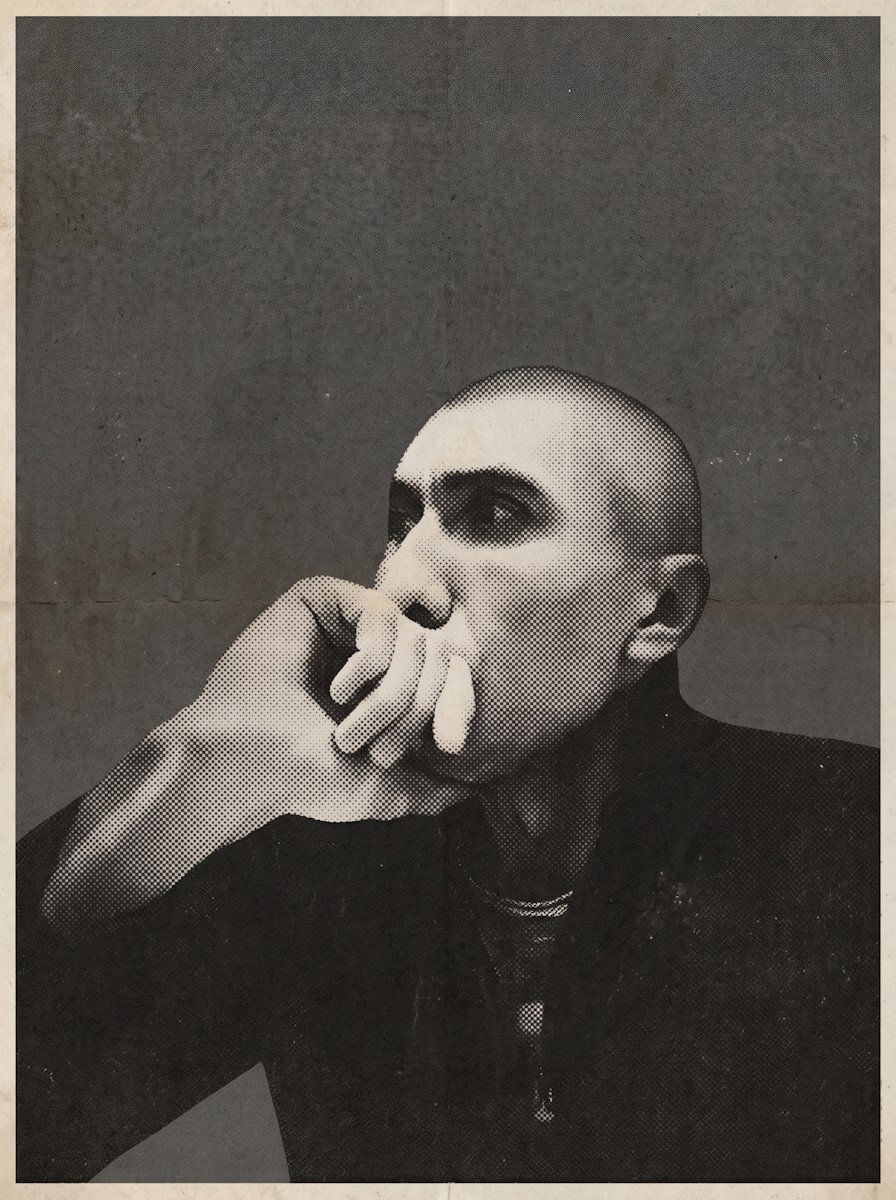
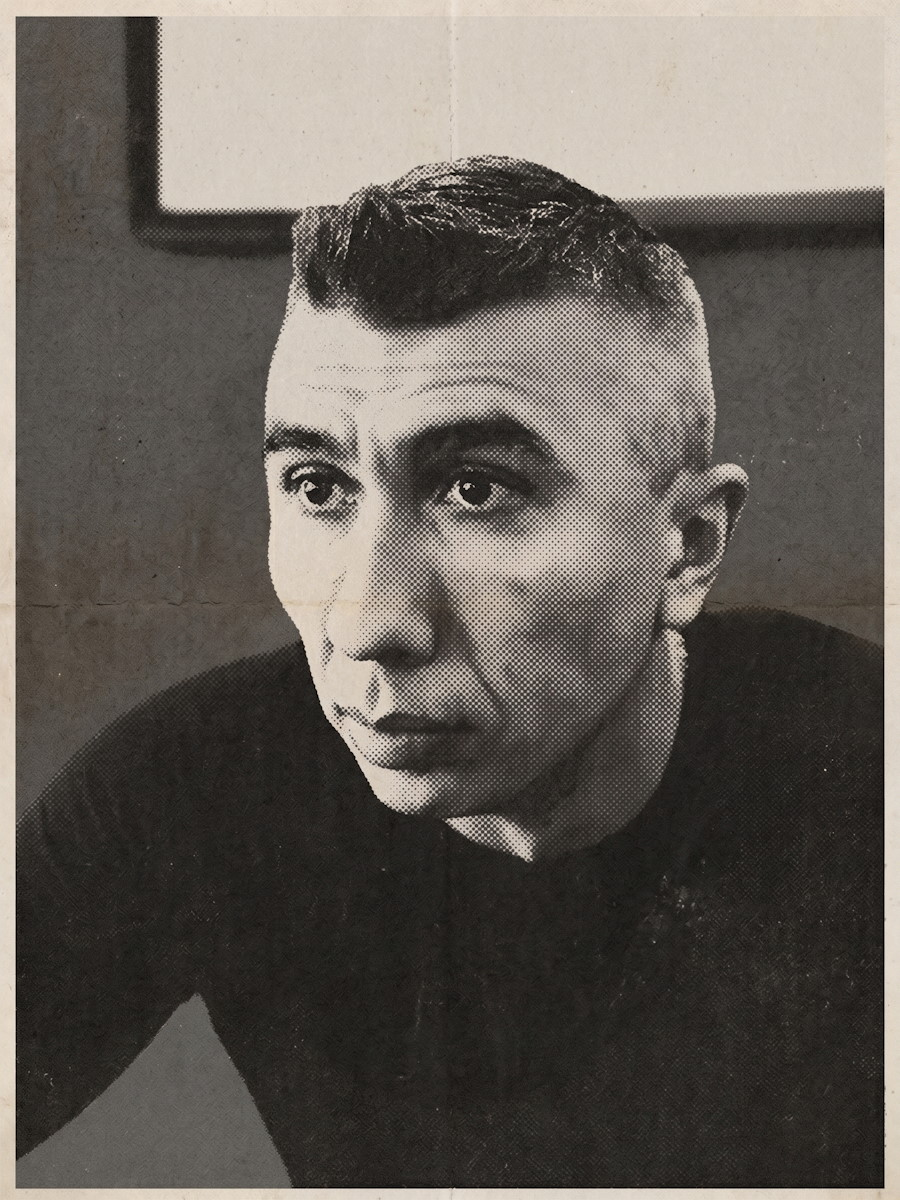
Правки контента: фото v3, ссылки 'подробнее' в плашках, разделение групп ИИ/Документы, обновление карточек P-01/P-02/P-03

diff --git a/index.html b/index.html
@@ -67,11 +67,12 @@ header .lbl{margin-bottom:12px}
 .kicker::before{content:'';width:44px;height:2px;background:var(--stamp);flex:none}
 h1.tagline{
   font-weight:900;text-transform:uppercase;
-  font-size:clamp(30px,5.4vw + 12px,72px);line-height:1.02;letter-spacing:-.01em;
+  font-size:clamp(25px,4.5vw + 10px,60px);line-height:1.04;letter-spacing:-.01em;
 }
 .subline{margin-top:16px;font-size:clamp(16px,1.7vw,21px);font-weight:500;color:var(--ink-soft)}
-.hero p.lead{margin-top:26px;max-width:52ch;font-size:17px;color:var(--ink-soft)}
+.hero p.lead{margin-top:26px;max-width:104ch;font-size:17px;color:var(--ink-soft)}
 .hero p.lead b{color:var(--ink)}
+.hero p.lead + .lead{margin-top:14px}
 /* фото как объект чертежа */
 .photo-obj{position:relative;padding:32px 14px 14px;margin-right:18px}
 .photo-obj img{
@@ -87,24 +88,29 @@ h1.tagline{
 .photo-obj .cap{margin-top:8px;text-align:right}
 /* ── лента данных ── */
 .datastrip{display:grid;grid-template-columns:repeat(4,1fr);border-top:2px solid var(--ink);border-bottom:1px solid var(--hair-strong)}
-.datastrip .cell{padding:18px 16px 20px;border-right:1px solid var(--hair)}
+.datastrip .cell{padding:18px 16px 20px;border-right:1px solid var(--hair);display:flex;flex-direction:column}
 .datastrip .cell:first-child{border-left:1px solid var(--hair-strong)}
 .datastrip .cell:last-child{border-right:1px solid var(--hair-strong)}
 .datastrip .num{font-weight:800;font-size:clamp(24px,2.6vw,36px);letter-spacing:-.02em;margin-top:6px;font-variant-numeric:tabular-nums}
 .datastrip .num small{font-weight:600;font-size:.5em;color:var(--ink-soft);display:block;margin-top:4px;letter-spacing:.06em}
+.datastrip .more{margin-top:auto;align-self:flex-end;font-family:var(--mono);font-size:13px;letter-spacing:.1em;text-transform:uppercase;color:var(--ink-soft);text-decoration:none}
+.datastrip .more:hover{color:var(--stamp)}
 /* ── секции ── */
 section{padding:clamp(40px,7vh,72px) 4px}
-.sec-head{display:flex;align-items:baseline;gap:16px;border-bottom:1px solid var(--hair-strong);padding-bottom:12px;margin-bottom:32px}
+.sec-head{display:flex;align-items:baseline;gap:16px;border-bottom:1px solid var(--hair-strong);padding-bottom:12px;margin-bottom:26px}
 .sec-head .idx{font-family:var(--mono);color:var(--stamp);font-size:12px;font-weight:700}
 .sec-head h2{font-weight:800;text-transform:uppercase;font-size:clamp(20px,2.4vw,30px);letter-spacing:.02em}
 .sec-head .tag{margin-left:auto}
 /* проекты */
 .proj{display:grid;grid-template-columns:120px 1fr;gap:20px;padding:26px 0;border-bottom:1px dashed var(--hair)}
 .proj:last-of-type{border-bottom:0}
+.proj:first-of-type{padding-top:0}
 .proj .pid{font-family:var(--mono);font-weight:700;font-size:15px;color:var(--stamp)}
 .proj .pid small{display:block;font-weight:400;color:var(--ink-soft);font-size:13px;margin-top:6px;letter-spacing:.08em}
 .proj h3{font-weight:800;font-size:clamp(19px,2.2vw,26px);line-height:1.15}
-.proj p{margin-top:10px;color:var(--ink-soft);max-width:68ch}
+.proj p{margin-top:10px;color:var(--ink-soft);max-width:136ch}
+.proj p a{color:var(--ink);text-decoration:underline;text-decoration-color:var(--hair-strong);text-underline-offset:3px}
+.proj p a:hover{color:var(--stamp);text-decoration-color:var(--stamp)}
 .chips{display:flex;flex-wrap:wrap;gap:8px;margin-top:16px}
 .chip{font-family:var(--mono);font-size:11px;letter-spacing:.06em;padding:4px 9px;border:1px solid var(--hair-strong);color:var(--ink-soft)}
 .chip.hot{border-color:var(--stamp);color:var(--stamp)}
@@ -112,10 +118,10 @@ section{padding:clamp(40px,7vh,72px) 4px}
 .status::before{content:'';width:9px;height:9px;background:var(--stamp)}
 /* раскрываемая спецификация проекта */
 .proj details.spec{margin-top:16px;border:1px solid var(--hair-strong);background:rgba(228,225,214,.5)}
-.proj details.spec summary{list-style:none;cursor:pointer;display:flex;align-items:center;gap:10px;padding:10px 14px;font-family:var(--mono);font-size:11px;letter-spacing:.12em;text-transform:uppercase;color:var(--ink-soft)}
+.proj details.spec summary{list-style:none;cursor:pointer;display:flex;align-items:center;gap:12px;padding:12px 16px;font-family:var(--mono);font-size:12px;letter-spacing:.12em;text-transform:uppercase;color:var(--ink-soft);background:#DED9CB}
 .proj details.spec summary::-webkit-details-marker{display:none}
-.proj details.spec summary::after{content:'+';margin-left:auto;font-weight:700;font-size:15px;color:var(--stamp)}
-.proj details.spec[open] summary::after{content:'−'}
+.proj details.spec summary::before{content:'▸';font-size:36px;line-height:1;color:var(--stamp);flex:none;transform:translateY(-3px)}
+.proj details.spec[open] summary::before{content:'▾'}
 .proj details.spec summary:hover,.proj details.spec[open] summary{color:var(--stamp)}
 .spec dl{display:grid;grid-template-columns:96px 1fr;gap:12px 16px;padding:16px 14px;border-top:1px solid var(--hair-strong);margin:0}
 .spec dt{font-family:var(--mono);font-size:11px;letter-spacing:.12em;text-transform:uppercase;color:var(--stamp);padding-top:2px}
@@ -127,12 +133,12 @@ section{padding:clamp(40px,7vh,72px) 4px}
 /* опыт как таблица учёта */
 table.exp{width:100%;border-collapse:collapse}
 table.exp td{padding:16px 14px;border-bottom:1px solid var(--hair);vertical-align:top}
-table.exp tr:first-child td{border-top:1px solid var(--hair-strong)}
 table.exp .yrs{font-family:var(--mono);font-size:12px;letter-spacing:.06em;white-space:nowrap;color:var(--ink-soft);width:150px}
 table.exp .org{font-weight:700;width:34%}
 table.exp .role{color:var(--ink-soft)}
 /* о себе */
-.about p{max-width:72ch;color:var(--ink-soft);font-size:17px}
+.about p{max-width:144ch;color:var(--ink-soft);font-size:17px}
+.about p + p{margin-top:14px}
 .about p b{color:var(--ink)}
 /* ── футер-штамп ── */
 footer{
@@ -182,16 +188,18 @@ footer .contacts{margin-top:18px;display:grid;gap:8px;font-family:var(--mono);fo
   .lbl{font-size:12.5px}
   .tech-groups .lbl{font-size:15px}
   .photo-obj .dim{font-size:11px}
-  h1.tagline{font-size:clamp(40px,4.5vw,84px)}
+  h1.tagline{font-size:clamp(33px,3.75vw,70px)}
   .subline{font-size:clamp(18px,1.9vw,24px)}
   .hero p.lead{font-size:18px}
+  .hero p.lead + .lead{margin-top:12px}
   .datastrip .num{font-size:clamp(30px,2.2vw,44px)}
+  .datastrip .more{font-size:14px}
   .sec-head .idx{font-size:13.5px}
   .chip{font-size:12.5px}
   .status{font-size:12.5px}
   .proj .pid{font-size:17px}
   .proj .pid small{font-size:14px}
-  .proj details.spec summary{font-size:12.5px}
+  .proj details.spec summary{font-size:13px}
   .spec dt{font-size:12.5px}
   .spec dd{font-size:16.5px}
   table.exp .yrs{font-size:13.5px}
@@ -201,9 +209,9 @@ footer .contacts{margin-top:18px;display:grid;gap:8px;font-family:var(--mono);fo
 /* сверхширокие мониторы (2000+ / 2K full) */
 @media (min-width:2000px){
   body{font-size:18px}
-  h1.tagline{font-size:clamp(44px,5vw,104px)}
+  h1.tagline{font-size:clamp(36px,4.2vw,86px)}
   .subline{font-size:28px}
-  .hero p.lead{font-size:20px;max-width:56ch}
+  .hero p.lead{font-size:20px;max-width:112ch}
   .lbl{font-size:14px}
   header .code{font-size:15px}
   header nav{gap:8px}
@@ -220,11 +228,12 @@ footer .contacts{margin-top:18px;display:grid;gap:8px;font-family:var(--mono);fo
   .proj p{font-size:18px}
   .spec dd{font-size:18px}
   .spec dt{font-size:14px}
-  .proj details.spec summary{font-size:14px}
+  .proj details.spec summary{font-size:15px}
   table.exp .yrs{font-size:15px}
   table.exp td{padding:18px 16px}
   .about p{font-size:20px}
   .datastrip .num{font-size:clamp(36px,2.2vw,56px)}
+  .datastrip .more{font-size:16px}
   footer .big{font-size:clamp(26px,2.4vw,40px)}
   footer .contacts{font-size:18px}
   .tech-groups{grid-template-columns:repeat(3,1fr)}
@@ -248,8 +257,8 @@ footer .contacts{margin-top:18px;display:grid;gap:8px;font-family:var(--mono);fo
       <h1 class="tagline">Автоматизация рутины и сложных задач для вашего бизнеса</h1>
       <p class="subline">проектирую и довожу до промышленной эксплуатации</p>
       <p class="lead"><b>Более 25 лет в коммерческой разработке ПО для задач бизнеса</b> —
-      от десктопных приложений и служб до распределённых систем обработки документов.
-      С 2025 года — <b>ИИ-помощники и агенты</b> в разработке и тестировании
+      от десктопных приложений и служб до распределённых систем обработки документов.</p>
+      <p class="lead">С 2025 года — <b>ИИ-помощники и агенты</b> в разработке и тестировании
       как часть повседневного процесса.</p>
     </div>
     <figure class="photo-obj">
@@ -262,10 +271,10 @@ footer .contacts{margin-top:18px;display:grid;gap:8px;font-family:var(--mono);fo
   </div>
 
   <div class="datastrip">
-    <div class="cell"><div class="lbl">Коммерческая разработка</div><div class="num">25+ <small>лет</small></div></div>
-    <div class="cell"><div class="lbl">Платформа · пиковая нагрузка</div><div class="num">1&nbsp;000&nbsp;000 <small>док/сутки</small></div></div>
-    <div class="cell"><div class="lbl">Печать АвтоВАЗ</div><div class="num">~250 <small>устройств</small></div></div>
-    <div class="cell"><div class="lbl">ИПД · проверка 100–300 стр.</div><div class="num">&lt;1 <small>мин</small></div></div>
+    <div class="cell"><div class="lbl">Коммерческая разработка · международный рынок</div><div class="num">25+ <small>лет</small></div><a class="more" href="#about">подробнее</a></div>
+    <div class="cell"><div class="lbl">Платформа · подтверждённая нагрузка в работе у клиента</div><div class="num">1&nbsp;000&nbsp;000 <small>док/сутки</small></div><a class="more" href="#p01">подробнее</a></div>
+    <div class="cell"><div class="lbl">Печать АвтоВАЗ</div><div class="num">~250 <small>устройств</small></div><a class="more" href="#p03">подробнее</a></div>
+    <div class="cell"><div class="lbl">ИПД · проверка 100–300 стр.</div><div class="num">&lt;1 <small>мин</small></div><a class="more" href="#p02">подробнее</a></div>
   </div>
 
   <section id="tech">
@@ -278,16 +287,20 @@ footer .contacts{margin-top:18px;display:grid;gap:8px;font-family:var(--mono);fo
         <div class="chips"><span class="chip">C#/.NET 8 и 10</span><span class="chip">ASP.NET Core</span><span class="chip">Groovy</span><span class="chip">Python</span><span class="chip">JS</span><span class="chip">WPF</span><span class="chip">WinForms</span><span class="chip">async/await</span><span class="chip">многопоточность</span><span class="chip">RegEx</span></div>
       </div>
       <div class="tg">
+        <div class="lbl">ИИ</div>
+        <div class="chips"><span class="chip hot">ИИ-агенты</span><span class="chip">Claude Code</span><span class="chip">Codex</span><span class="chip">ZCode</span><span class="chip">CloudCLI</span><span class="chip">Open Code</span><span class="chip">Ollama</span><span class="chip">Gemma</span><span class="chip">Qwen</span><span class="chip">Kimi</span><span class="chip">Stable Diffusion</span><span class="chip">Whisper</span><span class="chip">LLM</span><span class="chip">NER · DeepPavlov</span><span class="chip">OpenCV</span><span class="chip">нечёткое сравнение текста</span><span class="chip">YandexVision</span></div>
+      </div>
+      <div class="tg">
+        <div class="lbl">Работа с Документами</div>
+        <div class="chips"><span class="chip">FineReader Engine</span><span class="chip">FlexiCapture</span><span class="chip">OCR</span><span class="chip">Tesseract</span><span class="chip">Docling</span><span class="chip">Open XML SDK</span><span class="chip">парсинг и анализ данных</span><span class="chip">сложные формы</span><span class="chip">классификация документов</span><span class="chip">потоковая обработка</span><span class="chip">DOCX</span><span class="chip">XLSX</span><span class="chip">PDF</span><span class="chip">ODT</span><span class="chip">CSV</span></div>
+      </div>
+      <div class="tg">
         <div class="lbl">Данные</div>
         <div class="chips"><span class="chip">PostgreSQL</span><span class="chip">Tantor</span><span class="chip">MS SQL Server</span><span class="chip">MySQL</span><span class="chip">партиционирование</span><span class="chip">хранимые процедуры</span><span class="chip">оптимизация БД</span><span class="chip">план выполнения</span><span class="chip">SQL без ORM</span><span class="chip">XML</span><span class="chip">JSON</span></div>
       </div>
       <div class="tg">
         <div class="lbl">Интеграции и транспорт</div>
-        <div class="chips"><span class="chip">RabbitMQ</span><span class="chip">REST API</span><span class="chip">SOAP</span><span class="chip">SNMP</span><span class="chip">SMTP/POP3/IMAP</span><span class="chip">Telegram-боты</span><span class="chip">LPR/IPP/RAW</span><span class="chip">TCP-сокеты</span><span class="chip">SharePoint</span><span class="chip">Консультант+</span><span class="chip">Кодекс</span><span class="chip">Robin RPA</span><span class="chip">WebDAV</span></div>
-      </div>
-      <div class="tg">
-        <div class="lbl">Документы и ИИ</div>
-        <div class="chips"><span class="chip hot">ИИ-агенты</span><span class="chip">LLM</span><span class="chip">NER · DeepPavlov</span><span class="chip">FineReader Engine</span><span class="chip">FlexiCapture</span><span class="chip">OCR</span><span class="chip">Tesseract</span><span class="chip">YandexVision</span><span class="chip">Docling</span><span class="chip">Open XML SDK</span><span class="chip">нечёткое сравнение текста</span><span class="chip">парсинг и анализ данных</span><span class="chip">сложные формы</span><span class="chip">классификация документов</span><span class="chip">потоковая обработка</span><span class="chip">DOCX</span><span class="chip">XLSX</span><span class="chip">PDF</span><span class="chip">ODT</span><span class="chip">CSV</span></div>
+        <div class="chips"><span class="chip">RabbitMQ</span><span class="chip">REST API</span><span class="chip">SOAP</span><span class="chip">SNMP</span><span class="chip">SMTP/POP3/IMAP</span><span class="chip">Telegram-боты</span><span class="chip">LPR/IPP/RAW</span><span class="chip">TCP-сокеты</span><span class="chip">SharePoint</span><span class="chip">Консультант+</span><span class="chip">Кодекс</span><span class="chip">Robin RPA</span><span class="chip">WebDAV</span><span class="chip">FTP/SFTP</span></div>
       </div>
       <div class="tg">
         <div class="lbl">Инфраструктура</div>
@@ -298,28 +311,30 @@ footer .contacts{margin-top:18px;display:grid;gap:8px;font-family:var(--mono);fo
 
   <section id="projects">
     <div class="sec-head">
-      <span class="idx">РАЗД. 02</span><h2>Значимые проекты</h2><span class="tag lbl">перечень обязательный</span>
+      <span class="idx">РАЗД. 02</span><h2>Последние интересные проекты</h2><span class="tag lbl">перечень для ознакомления</span>
     </div>
-    <article class="proj">
-      <div class="pid">P-01<small>с 2014<br>автор, архитектор</small></div>
+    <article class="proj" id="p01">
+      <div class="pid">P-01<small>автор, архитектор</small></div>
       <div>
         <h3>ESV Platform. Платформа распределённой обработки документов</h3>
-        <p>Кластер узлов с балансировщиком нагрузки, задачи и workflow в БД на выбор
-        (MS SQL, PostgreSQL, Tantor), контроль heartbeat, горячий резерв. До 1 000 000 документов в сутки.</p>
+        <p>ESV Platform зарегистрирована в реестре Российского ПО
+        (<a href="https://esv-platform.ru/" target="_blank" rel="noopener">https://esv-platform.ru/</a>).
+        Кластер узлов с балансировщиком нагрузки, задачи и workflow в БД на выбор
+        (MS&nbsp;SQL, PostgreSQL, Tantor), контроль heartbeat, горячий резерв. До 1&nbsp;000&nbsp;000 документов в сутки.</p>
         <div class="chips"><span class="chip">C#/.NET</span><span class="chip">PostgreSQL</span><span class="chip">Tantor</span><span class="chip">MS SQL Server</span><span class="chip">Windows / Linux</span><span class="chip">потоковая обработка</span><span class="chip">классификация документов</span><span class="chip">многопоточность</span><span class="chip">балансировка нагрузки</span><span class="chip">heartbeat</span><span class="chip">горячий резерв</span></div>
         <div class="status">статус: в промышленной эксплуатации</div>
         <details class="spec">
           <summary>спецификация · запрос / решение / результат</summary>
           <dl>
             <dt>Запрос</dt><dd>Непрерывная потоковая обработка документов разных видов: счета, договоры, пакеты документов, сканы, чертежи и другие. Приём из различных источников — сетевые папки, почта, FTP, WebDAV, SharePoint, брокеры сообщений. Полный цикл обработки: распознавание, классификация, поиск и извлечение данных, экспорт результатов в требуемые форматы. Ключевые требования — отказоустойчивость и масштабируемость под переменную нагрузку.</dd>
-            <dt>Решение</dt><dd>Распределённый кластер на .NET с БД на выбор — MS SQL, PostgreSQL, Tantor. Ядро — балансировщик нагрузки с резервированием (один активен, остальные ждут): он же назначает задачи узлам по мере движения документа по workflow — на узел, где есть нужный модуль и меньше очередь. Узел обработки — процесс-менеджер с пулом модулей; задачи вычитываются последовательно или параллельно, в зависимости от того, поддерживает ли модуль многопоточную обработку. Модули трёх типов: входные — регистрируют документ в БД для нужного workflow; обработки — выполняют стадии и передают документ дальше по маршруту; сервисные — фоновые задачи без привязки к workflow. Модули импорта можно резервировать. Система кроссплатформенная: узлы работают на Windows и любом Linux с .NET; для стадий ручной проверки есть веб-модуль верификации.</dd>
-            <dt>Результат</dt><dd>В разработке с 2014 года, в промышленной эксплуатации — с 2015-го. Пиковая нагрузка — до 1 000 000 документов в сутки. Система постоянно улучшается и дополняется новым функционалом.</dd>
+            <dt>Решение</dt><dd>Распределённый кластер на .NET с БД на выбор — MS&nbsp;SQL, PostgreSQL, Tantor. Ядро — балансировщик нагрузки с резервированием (один активен, остальные ждут): он же назначает задачи узлам по мере движения документа по workflow — на узел, где есть нужный модуль и меньше очередь. Узел обработки — процесс-менеджер с пулом модулей; задачи вычитываются последовательно или параллельно, в зависимости от того, поддерживает ли модуль многопоточную обработку. Модули трёх типов: входные — регистрируют документ в БД для нужного workflow; обработки — выполняют стадии и передают документ дальше по маршруту; сервисные — фоновые задачи без привязки к workflow. Модули импорта можно резервировать. Система кроссплатформенная: узлы работают на Windows и любом Linux с .NET; также систему можно развернуть в docker контейнерах; для стадий ручной проверки есть веб-модуль верификации.</dd>
+            <dt>Результат</dt><dd>В разработке с 2014 года, в промышленной эксплуатации — с 2015-го. Подтверждённая в работе нагрузка — до 1&nbsp;000&nbsp;000 документов в сутки. Система постоянно улучшается и дополняется новым функционалом.</dd>
           </dl>
         </details>
       </div>
     </article>
-    <article class="proj">
-      <div class="pid">P-02<small>с 2023<br>архитектор, разработчик</small></div>
+    <article class="proj" id="p02">
+      <div class="pid">P-02<small>архитектор, разработчик</small></div>
       <div>
         <h3>ДИТ Москвы. Система интеллектуальной проверки документов (ИПД)</h3>
         <p>Конвейер на Astra Linux: документ на 100–300 страниц проверяется обычно меньше чем за минуту.
@@ -330,26 +345,28 @@ footer .contacts{margin-top:18px;display:grid;gap:8px;font-family:var(--mono);fo
           <summary>спецификация · запрос / решение / результат</summary>
           <dl>
             <dt>Запрос</dt><dd>Две большие задачи. Первая — в больших документах находить все упоминания нормативных правовых и технических актов (НПА/НТА), проверять их корректность и актуальность, выполнять дополнительные проверки формулировок и оформления; результат — детальный и сводный отчёты по документу. Вторая — сравнение документов одного проекта (ТЗ, ЧТЗ, ПМИ, заявки, протоколы) между собой на консистентность и корректность, а также проверка уникальности ТЗ и ЧТЗ разных проектов; по каждому сценарию — детальные и сводный отчёты о найденных несоответствиях, дубликатах и пропусках.</dd>
-            <dt>Решение</dt><dd>Отдельная версия платформы распределённой обработки документов со своими модулями. Кластер на Astra Linux. Поиск сущностей — NER на DeepPavlov; анализ структуры документа и последующая работа с ним — на Open XML SDK. Детальные отчёты — проблемные участки выделяются цветом прямо в исходном документе, с комментариями. Сравнение структур и содержимого — авторские алгоритмы нечёткого поиска либо LLM там, где нужно сравнить смысл при сильно различающихся формулировках. Для пользователей — веб-фронтенд и REST API.</dd>
+            <dt>Решение</dt><dd>Отдельная версия платформы распределённой обработки документов со своими модулями. Кластер на Astra Linux. Поиск сущностей — NER на DeepPavlov; проверка актуальности НПА/НТА во внешних справочно-информационных системах Кодекс и Консультант+. Анализ структуры документа и последующая работа с ним — на Open XML SDK. Детальные отчёты — проблемные участки выделяются цветом прямо в исходном документе, с комментариями. Сравнение структур и содержимого — авторские алгоритмы нечёткого поиска либо LLM там, где нужно сравнить смысл при сильно различающихся формулировках. Для пользователей — веб-фронтенд и REST API.</dd>
             <dt>Результат</dt><dd>Типовой сценарий — документ на 100–300 страниц проверяется меньше чем за минуту: NER работает на GPU, активное участие LLM не требуется. Особо сложные сценарии анализа могут занимать 5–10 минут.</dd>
           </dl>
         </details>
       </div>
     </article>
-    <article class="proj">
-      <div class="pid">P-03<small>2024–2025<br>архитектор, разработчик</small></div>
+    <article class="proj" id="p03">
+      <div class="pid">P-03<small>архитектор, разработчик</small></div>
       <div>
         <h3>АвтоВАЗ. Система гарантированной печати</h3>
-        <p>~250 устройств: RabbitMQ с очередью на каждое, SNMP-контроль до и после печати,
-        печать по LPR/IPP/RAW, этикетки с RFID.</p>
-        <div class="chips"><span class="chip">RabbitMQ</span><span class="chip">PostgreSQL</span><span class="chip">партиционирование</span><span class="chip">JSON</span><span class="chip">SNMP</span><span class="chip">LPR/IPP/RAW</span><span class="chip">RFID</span><span class="chip">Deckhouse</span><span class="chip">WPF</span></div>
+        <p>~250 устройств печати (лазерные и термо-принтеры, этикетки с RFID, визуализация на телевизор)
+        с поддержкой различных протоколов печати на низком уровне. Брокер RabbitMQ с раздельными очередями
+        на каждое устройство, SNMP-контроль до и после печати. Мониторинг состояния отдельных устройств
+        и системы в целом.</p>
+        <div class="chips"><span class="chip">RabbitMQ</span><span class="chip">Postgres Pro</span><span class="chip">партиционирование</span><span class="chip">JSON</span><span class="chip">SNMP</span><span class="chip">LPR/IPP/RAW</span><span class="chip">RFID</span><span class="chip">Deckhouse</span><span class="chip">WPF</span></div>
         <div class="status">статус: сдано на конвейер</div>
         <details class="spec">
           <summary>спецификация · запрос / решение / результат</summary>
           <dl>
-            <dt>Запрос</dt><dd>Замена существующего CUPS-сервера. В производственных линиях критичны гарантия печати и чёткая последовательность заданий — прежнее решение этого не обеспечивало. Второй ключевой критерий — скорость обработки: не ниже 60 заданий печати в минуту на разные устройства.</dd>
-            <dt>Решение</dt><dd>Задания формируются как шаблоны с данными в JSON и через RabbitMQ попадают в общую очередь, где диспетчер распределяет их по узлам обработки. Узлы готовят бинарные данные под конкретное устройство печати (отправка по LPR/IPP/RAW) и передают их в отдельную очередь этого устройства. Узел печати — многопроцессное многопоточное решение — мониторит очереди всех устройств, опрашивает их по SNMP до готовности и проверяет, что задание напечаталось, по нескольким критериям; только после этого печать считается успешной. Есть резервные устройства и перенос очереди печати между устройствами, отдельные очереди команд для управления. Всё регистрируется и логируется в PostgreSQL — для таблиц с миллионами записей включено партиционирование. Поддерживаются разные модели и типы устройств: лазерники, термопринтеры. Сбои нотифицируются в управляющее приложение и на почту. Система собрана и работает в Deckhouse; в комплекте — WPF-приложение для тестирования, веб-админка и вывод заданий печати на телевизор.</dd>
-            <dt>Результат</dt><dd>Нагрузочное тестирование с запасом покрывает требования по скорости обработки и печати. Система сдана на конвейер и работает в промышленной эксплуатации.</dd>
+            <dt>Запрос</dt><dd>Импортозамещение существующего сервера печати. В производственных линиях критичны гарантия печати и чёткая последовательность заданий — прежнее решение этого не обеспечивало. Второй ключевой критерий — скорость обработки: не ниже 60 заданий печати в минуту на разные устройства.</dd>
+            <dt>Решение</dt><dd>Задания формируются как шаблоны с данными в JSON и через RabbitMQ попадают в общую очередь, где диспетчер распределяет их по узлам обработки. Узлы готовят бинарные данные под конкретное устройство печати (отправка по LPR/IPP/RAW) и передают их в отдельную очередь этого устройства. Узел печати — многопроцессное многопоточное решение — мониторит очереди всех устройств, опрашивает их по SNMP до готовности и проверяет, что задание напечаталось, по нескольким критериям; только после этого печать считается успешной. Есть резервные устройства и перенос очереди печати между устройствами, отдельные очереди команд для управления. База данных на Postgres Pro хранит детальную информацию обо всех заданиях печати и оптимизирована под быструю работу с миллионами записей для построения отчетов. Поддерживаются разные модели и типы устройств: лазерники, термопринтеры. Сбои в работе устройств или компонентов регистрируются и отправляются в виде сообщений на почту ответственным лицам. Узлы системы спроектированы для работы в docker контейнерах и работают под управлением отечественной Kubernetes-платформы Deckhouse. В комплекте — WPF-приложение для тестирования, веб-админка и вывод заданий печати на телевизор.</dd>
+            <dt>Результат</dt><dd>Система работает с высокой степенью отказоустойчивости в течение нескольких лет и с запасом покрывает требования по скорости обработки и печати.</dd>
           </dl>
         </details>
       </div>
@@ -362,7 +379,7 @@ footer .contacts{margin-top:18px;display:grid;gap:8px;font-family:var(--mono);fo
     </div>
     <table class="exp">
       <tr><td class="yrs">01.2023 — наст. вр.</td><td class="org">Частная практика (ИП)</td><td class="role">Ведущий разработчик C#/.NET, архитектор — заказная разработка для промышленных и государственных заказчиков</td></tr>
-      <tr><td class="yrs">01.2019 — 12.2022</td><td class="org">ABBYY, Новосибирский филиал</td><td class="role">Руководитель группы сопровождения инфраструктурных сервисов; с 09.2019 — директор филиала (по совместительству)</td></tr>
+      <tr><td class="yrs">01.2019 — 12.2022</td><td class="org">ABBYY, Новосибирский филиал</td><td class="role">Руководитель группы сопровождения инфраструктурных сервисов; с 09.2019 — директор филиала</td></tr>
       <tr><td class="yrs">03.2001 — 12.2018</td><td class="org">АТАПИ Софтвер (партнёр ABBYY)</td><td class="role">От стажёра до руководителя отдела исследований и разработок (2010–2018)</td></tr>
     </table>
   </section>
@@ -371,9 +388,11 @@ footer .contacts{margin-top:18px;display:grid;gap:8px;font-family:var(--mono);fo
     <div class="sec-head">
       <span class="idx">РАЗД. 04</span><h2>О себе</h2><span class="tag lbl">примечания к листу</span>
     </div>
-    <p>НГТУ, 2001, АВТФ («Автоматика и управление в технических системах»).
-    Английский — C1. Сертификаты: Microsoft MCPD (.NET Framework), MCP (MS SQL Server), Naumen Service Desk.
-    Вне работы — кино, кулинария, книги, велосипед; <b>МС по стрельбе из лука</b> и
+    <p><b>Образование:</b> Лицей Информационных Технологий, 1996. НГТУ, АВТФ
+    («Автоматика и управление в технических системах»), 2001.</p>
+    <p><b>Языки:</b> Русский (родной), Английский (C1).</p>
+    <p><b>Сертификаты:</b> Microsoft MCPD (.NET Framework), MCP (MS&nbsp;SQL&nbsp;Server), Naumen Service Desk.</p>
+    <p><b>Вне работы:</b> кино, кулинария, книги, велосипед; <b>МС по стрельбе из лука</b> и
     <b>КМС по пауэрлифтингу</b> — привычка к точности и методичной нагрузке.</p>
   </section>
 
